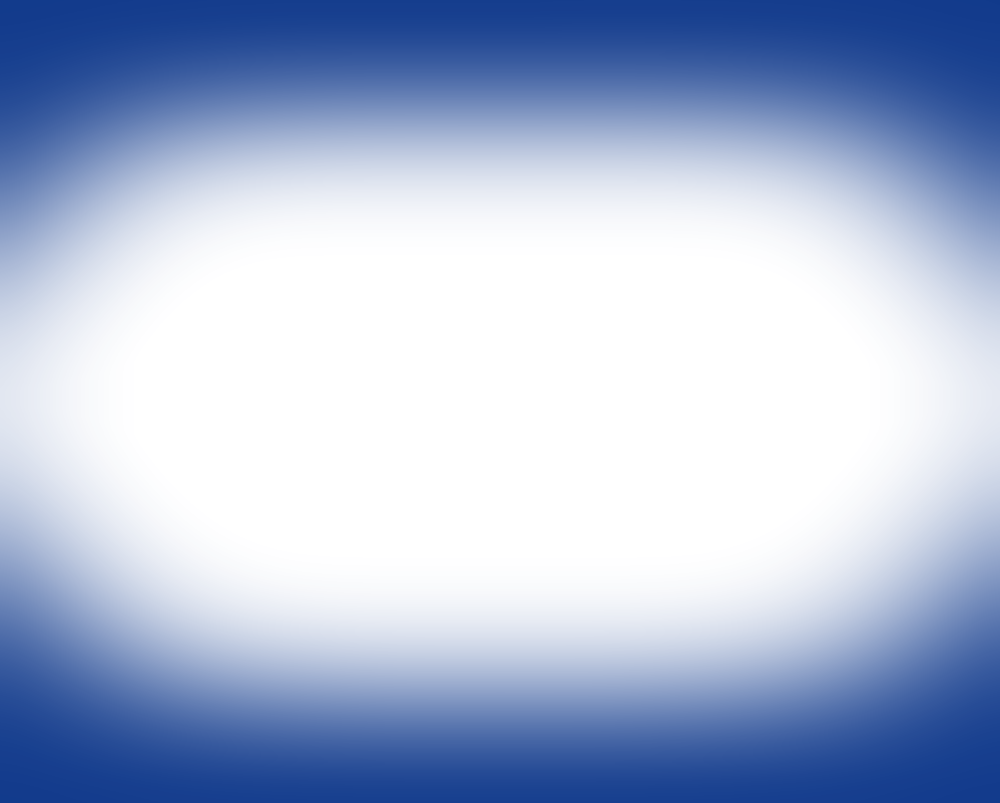
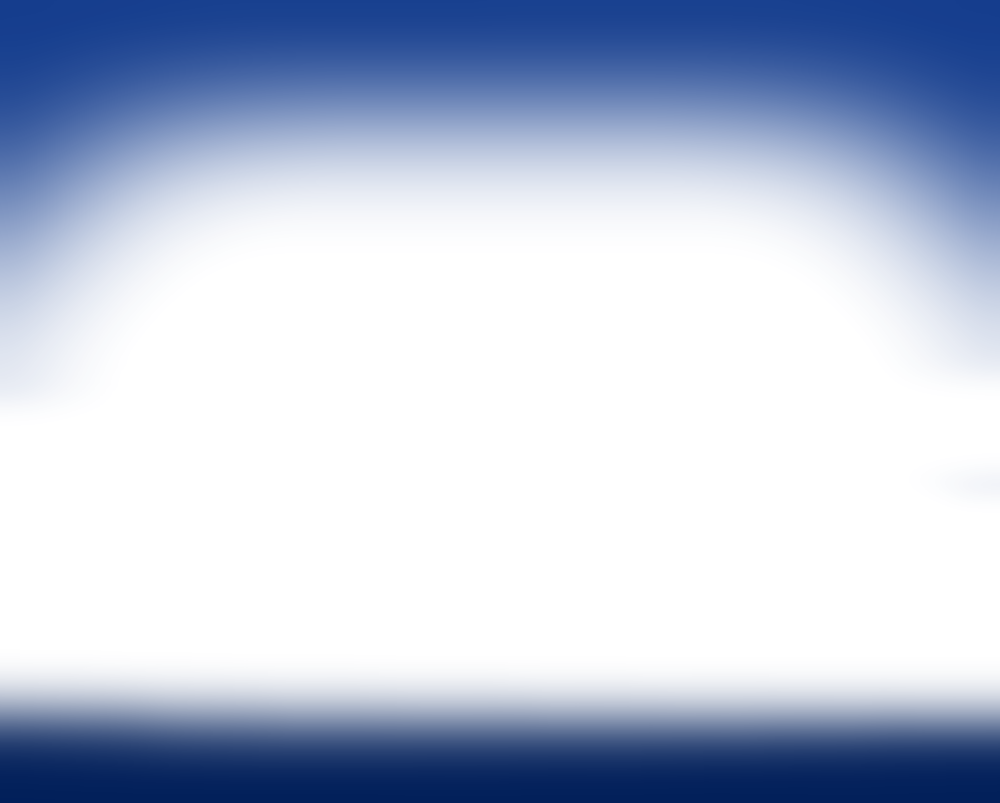
update

Changed region(s): [[0.0, 0.467, 1.0, 1.0]]

diff --git a/src/components/StarCanvas.jsx b/src/components/StarCanvas.jsx
@@ -16,7 +16,7 @@ const StarCanvas = () => {
     const draw = (context) => {
       context.fillStyle = "rgb(16, 57, 139)";
       context.fillRect(0, 0, canvas.width, canvas.height);
-      const effect = new Effect(window.innerWidth, window.innerHeight * 1.1, 12345); // Pass a seed value
+      const effect = new Effect(window.innerWidth, window.innerHeight * 1.1, 12345); // enter seed
       effect.init();
       Animate(effect, context);
     };
@@ -27,7 +27,7 @@ const StarCanvas = () => {
     return () => window.removeEventListener('resize', setCanvasSize);
   }, []);
 
-  return <canvas ref={canvasRef} />;
+  return <canvas className="starCanvas" ref={canvasRef} />;
 };
 
 export default StarCanvas;
@@ -35,18 +35,22 @@ export default StarCanvas;
 class LCG {
   constructor(seed) {
     this.seed = seed;
+    // ZX81 LCG
+    this.a = 75;
+    this.c = 74;
+    this.m = Math.pow(2, 16) + 1;
   }
 
   next() {
-    // ZX81 LCG
-    const a = 75;
-    const c = 74;
-    const m = Math.pow(2, 16) + 1;
+    this.seed = (this.a * this.seed + this.c) % this.m;
+    return this.seed;
+  }
 
-    this.seed = (a * this.seed + c) % m;
-    return this.seed / m;
+  getvalue() {
+    return this.seed / this.m;
   }
 }
+
 
 class Effect {
   constructor(width, height, seed) {
@@ -67,13 +71,13 @@ class Effect {
   }
 
   init() {
-    for (let i = 0; i < 500; i++) {
+    for (let i = 0; i < 200; i++) {
       this.particles.push(new Particle(this, this.width, this.height, this.random));
     }
   }
 
   draw(context) {
-    this.particles.forEach(particle => particle.draw(context));
+    this.particles.forEach(particle => particle.draw(context,this.random));
   }
 
   update() {
@@ -84,8 +88,10 @@ class Effect {
 class Particle {
   constructor(effect, width, height, random) {
     this.effect = effect;
-    this.x = random.next() * width;
-    this.y = random.next() * height;
+    random.next()
+    this.x = random.getvalue() * width;
+    random.next()
+    this.y = random.getvalue() * height;
     this.Ox = Math.floor(this.x);
     this.Oy = Math.floor(this.y);
     this.size = 3;
@@ -98,18 +104,41 @@ class Particle {
     this.angle = 0;
   }
 
-  draw(context) {
+  draw(context,random) {
+    // last digit ectract
+    random.next()
+    let sparkleseed = random.getvalue() % 10
+    let factor = undefined
+
+    //console.log(seed)
+    //draw
     context.fillStyle = "rgb(146, 186, 255)";
-    //context.fillRect(this.x, this.y, this.size, this.size);
-    // context.beginPath();
-    // context.arc(this.x, this.y, 2, 0, 2 * Math.PI);
-    context.beginPath();
-    context.moveTo(this.x, this.y);
-    context.lineTo(this.x - 3, this.y + 3);
-    context.lineTo(this.x, this.y + 6);
-    context.lineTo(this.x + 3, this.y + 3);
-    context.closePath();   
-    context.fill();
+    if ((this.Ox % 10)*10 <9){
+      //diamond
+      factor=Math.abs(sparkleseed-5)*0.7;
+      context.beginPath();
+      context.moveTo(this.x, this.y);
+      context.lineTo(this.x - factor, this.y +  factor);
+      context.lineTo(this.x, this.y +  factor*2);
+      context.lineTo(this.x +  factor, this.y +  factor);
+      context.closePath();   
+      context.fill();
+    }else{
+      //star
+      factor=Math.abs(sparkleseed-5)*1.2+1;
+      context.beginPath();
+      context.moveTo(this.x, this.y);
+      context.lineTo(this.x - factor/4, this.y + 3*factor/4);
+      context.lineTo(this.x - factor, this.y +  factor);
+      context.lineTo(this.x - factor/4, this.y + 5*factor/4);
+      context.lineTo(this.x, this.y +  factor*2);
+      context.lineTo(this.x + factor/4, this.y + 5*factor/4);
+      context.lineTo(this.x +  factor, this.y +  factor);
+      context.lineTo(this.x + factor/4, this.y + 3*factor/4);
+      context.closePath();   
+      context.fill();
+    }
+    
   }
 
   update() {

diff --git a/src/components/Body.jsx b/src/components/Body.jsx
@@ -133,20 +133,27 @@ export const Body = () => {
               scrub: false,
             }, delay: 0,
         });
+        gsap.to('.word5', {
+          yPercent: 50, 
+          repeat: -1, 
+          duration: 1, 
+          yoyo: true,
+          ease: "back.inOut(1.7)", 
+        });
         gsap.from(".plane2", {
-          y:200,
+          y:50,
           scrollTrigger: {
               trigger: ".sectionwtb",
-              start: "top 30.67%",
+              start: "top 20.67%",
               // end: "bottom 100%",
               scrub: true,
             }, delay: 0.6,
         });
         gsap.from(".plane3", {
-          y:400,
+          y:100,
           scrollTrigger: {
               trigger: ".sectionwtb",
-              start: "top 30.67%",
+              start: "top 20.67%",
               // end: "bottom 100%",
               scrub: true,
             }, delay: 0.6,
@@ -218,11 +225,13 @@ export const Body = () => {
             </section>
             <section className="sectionwtb">
               <StarCanvas/>
-              <img className="plane1" src="./images/plane1.png" alt="hello"></img>
-              <img className="plane2" src="./images/plane2.png" alt="hello"></img>
-              <img className="plane3" src="./images/plane3.png" alt="hello"></img>
-              <img className="w" src="./images/w.png" alt="hello"></img>
-                <div className="txtspace">
+              <div className="planewrapper">
+                <img className="plane1" src="./images/plane1.png" alt="hello"></img>
+                <img className="plane2" src="./images/plane2.png" alt="hello"></img>
+                <img className="plane3" src="./images/plane3.png" alt="hello"></img>
+                <img className="w" src="./images/w.png" alt="hello"></img>
+              </div>
+              <div className="txtspace">
                   {
                           'Technical Projects ...'.split('').map((char, index) => {
                           return (
@@ -232,11 +241,19 @@ export const Body = () => {
                           );
                           })
                   }
-                </div>
+              </div>
             </section>
             <section className="sectionb2">
-              <div className="proj1wrapper">
-                <video className="proj1" src="./videos/proj1.mp4"/>
+              <div className="proj1headerwrapper">
+                <div className="proj1header"> Old Portfolio Website</div>
+              </div>
+              <div>
+                <div className="proj1content"> There is cabin in the middle of the snowy mountains,
+                  who knows when the blizzard will subside. It may be worth the risk for a bit of shelter.
+                </div>
+                <div className="proj1wrapper">
+                  <video className="proj1" src="./videos/proj1.mp4"/>
+                </div>
               </div>
             </section>
             <section className="sectionicons">

diff --git a/src/index.css b/src/index.css
@@ -66,29 +66,34 @@ hr {
   padding-left: 5px;
   padding-right: 5px;
 }
-.plane1 {
-  height: 110vh;
+.planewrapper {
   width: 100vw;
-  position: absolute;
+  height: 110vh;
+  position: absolute;  
+  overflow: hidden;
   display: flex;
   flex-wrap: wrap;
   justify-content: center;
   align-items: center;
 }
+.plane1 {
+  height: 110vh;
+  width: 100vw;
+  position: absolute;
+  display: flex;
+}
 .plane2, .plane3 {
   height: 110vh;
   position: absolute;
   display: flex;
-  flex-wrap: wrap;
-  justify-content: center;
-  align-items: center;
+  overflow-y: visible;
 }
 .proj1wrapper {
   width: clamp(40px, 60vw, 100vh);
   height: clamp(40px, 50vw, 100vh);
   right: 0;
   border-radius: 20px;
-  position: absolute;
+  position: absolute;  
   overflow: hidden;
   display: flex;
   flex-wrap: wrap;
@@ -102,6 +107,29 @@ hr {
   position: absolute; 
   top: 0;
   left: 0;
+}
+.proj1headerwrapper {
+  display: flex;
+  justify-content: center;
+  align-items: center;
+  overflow: hidden;
+}
+.proj1header {
+  font-family: 'SpaceGames', sans-serif;
+  font-size: 20px;
+  color: rgb(228, 243, 255);
+  display: flex;
+  justify-content: center;
+  align-items: center;
+  top: 0%;
+}
+.proj1content {
+  font-family: 'Orbitron', sans-serif;
+  font-size: 15px;
+  color: rgb(146, 186, 255);
+  margin-left: 10px;
+  margin-top: 5px;
+  top: 0%;
 }
 .w {
   height: 110vh;
@@ -136,7 +164,7 @@ hr {
 .sectionb2 {
   height: 100vh;
   width:100vw;
-  background-color: rgb(16, 57, 139);
+  background-color: rgb(0, 30, 89);
   padding: 5px;
   justify-content: center;
   align-items: center;
@@ -198,20 +226,17 @@ hr {
   overflow: hidden;
   z-index: 2;
 }
-.sectionw {
-  height: 110vh;
-  width:100vw;
-  background-color: rgb(228, 243, 255);
-  padding: 5px;
-}
 .sectionicons {
   height: 110px;
   width:100vw;
-  background-color: rgb(16, 57, 139);
+  background-color: rgb(0, 30, 89);
   padding: 5px;
   justify-content: center;
   align-items: center;
   z-index: 2;
+}
+.starCanvas {
+  position: absolute;
 }
 .text {
   line-height: 1em;
@@ -261,14 +286,12 @@ hr {
 }
 .txtspace{  
   font-family: Fussion;
-  position: absolute;
-  font-size: 25px;
+  font-size: 20px;
   color: rgb(228, 243, 255);
   display: flex;
-  top:160vh;
-  flex-wrap: wrap;
   justify-content: center;
   align-items: center;
+  margin-top: -20vh;
 }
 .txticons{  
   font-family: Sterion;

diff --git a/src/components/Cave.jsx b/src/components/Cave.jsx
@@ -9,12 +9,12 @@ export function Cave(props) {
   useEffect(() => {
     const handleScroll = () => {
       const scrollY = window.scrollY;
-      const scrollHeight = document.documentElement.scrollHeight - window.innerHeight;
+      const scrollHeight = window.innerHeight;
       const scrollPercent = scrollY / scrollHeight;
 
     
       if (groupRef.current) {
-        groupRef.current.position.y = scrollPercent * 2.3 +0.1;
+        groupRef.current.position.y = scrollPercent * 1 +0.1;
       }
     };
 
